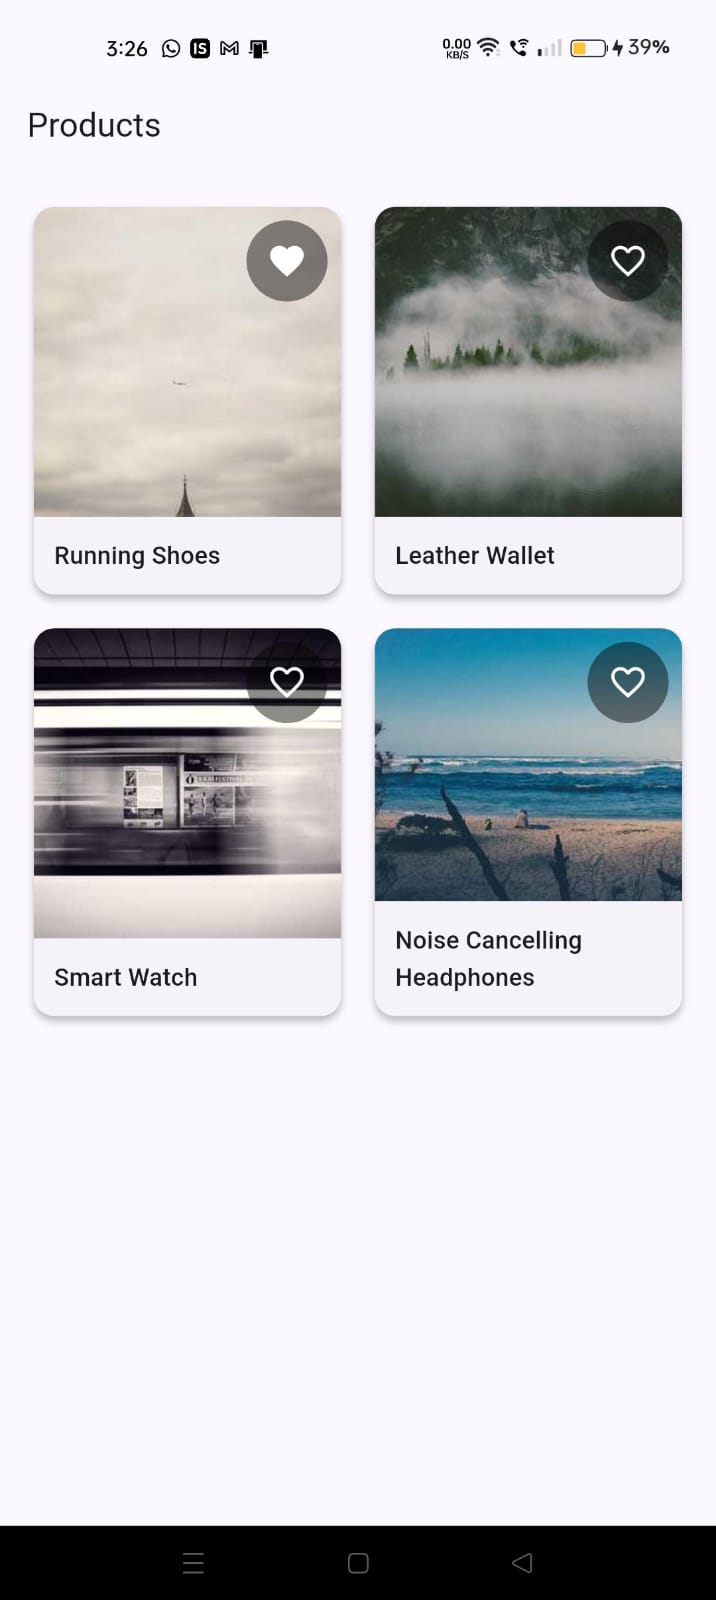
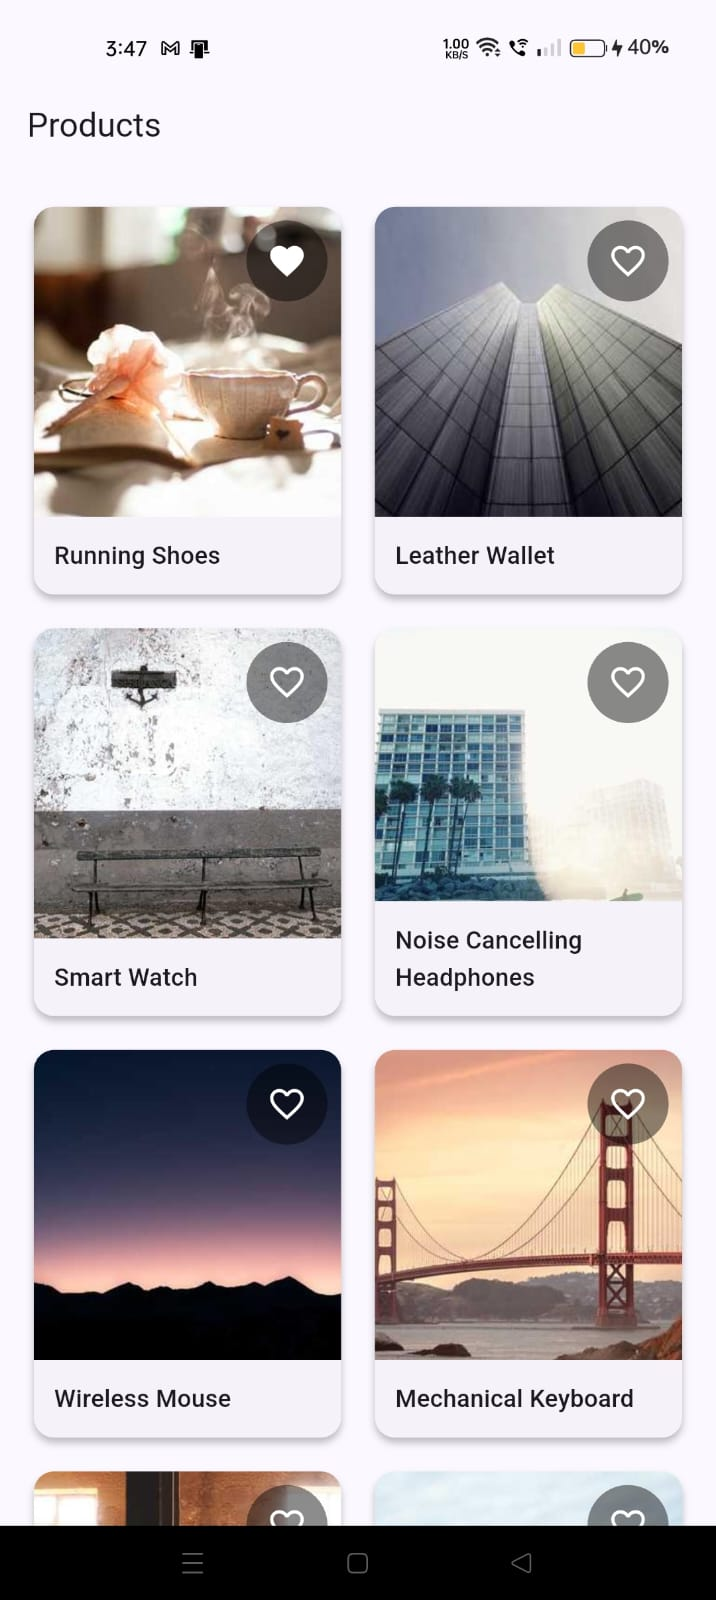
added that provided api url is not working so added 1 local file

diff --git a/lib/services/product_service.dart b/lib/services/product_service.dart
@@ -15,8 +15,11 @@ class ProductService {
 
   Future<List<Product>> fetchProducts() async {
     debugPrint('🌐 [ProductService] Fetching products from API: $_endpoint');
+    debugPrint('ℹ [ProductService] Note: API endpoint may be unavailable, will use fallback if needed');
     try {
-      final response = await _client.get(Uri.parse(_endpoint));
+      final response = await _client
+          .get(Uri.parse(_endpoint))
+          .timeout(const Duration(seconds: 10));
       debugPrint('📡 [ProductService] API response status: ${response.statusCode}');
       if (response.statusCode == 200) {
         final body = jsonDecode(response.body) as List<dynamic>;

diff --git a/README.md b/README.md
@@ -17,7 +17,7 @@ A Flutter app that displays products in a grid layout with favorites functionali
    flutter run
    ```
 
-The app will fetch products from `https://mock.pavepilot.dev/products`. If the API is unavailable, it automatically falls back to a local JSON file.
+The app attempts to fetch products from `https://mock.pavepilot.dev/products`. **Note: This API endpoint is currently unavailable**, so the app automatically uses the local JSON fallback file (`assets/products_fallback.json`) which contains 16 sample products.
 
 ## Screenshots
 
